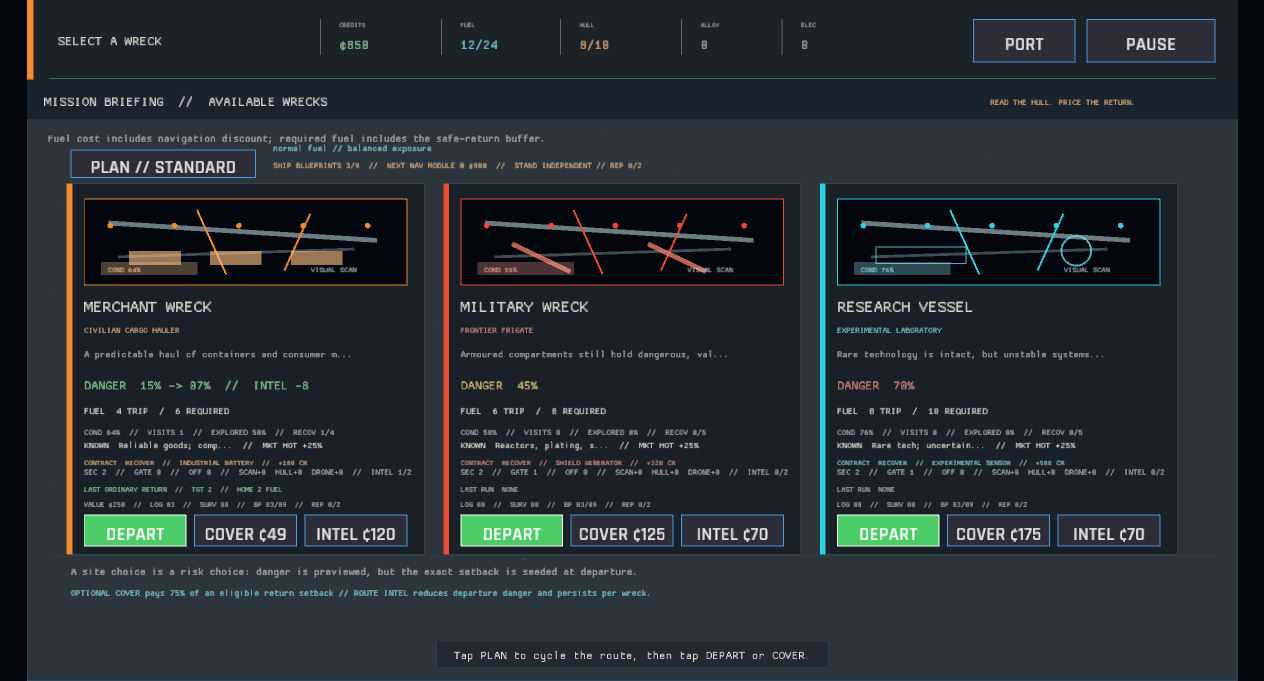
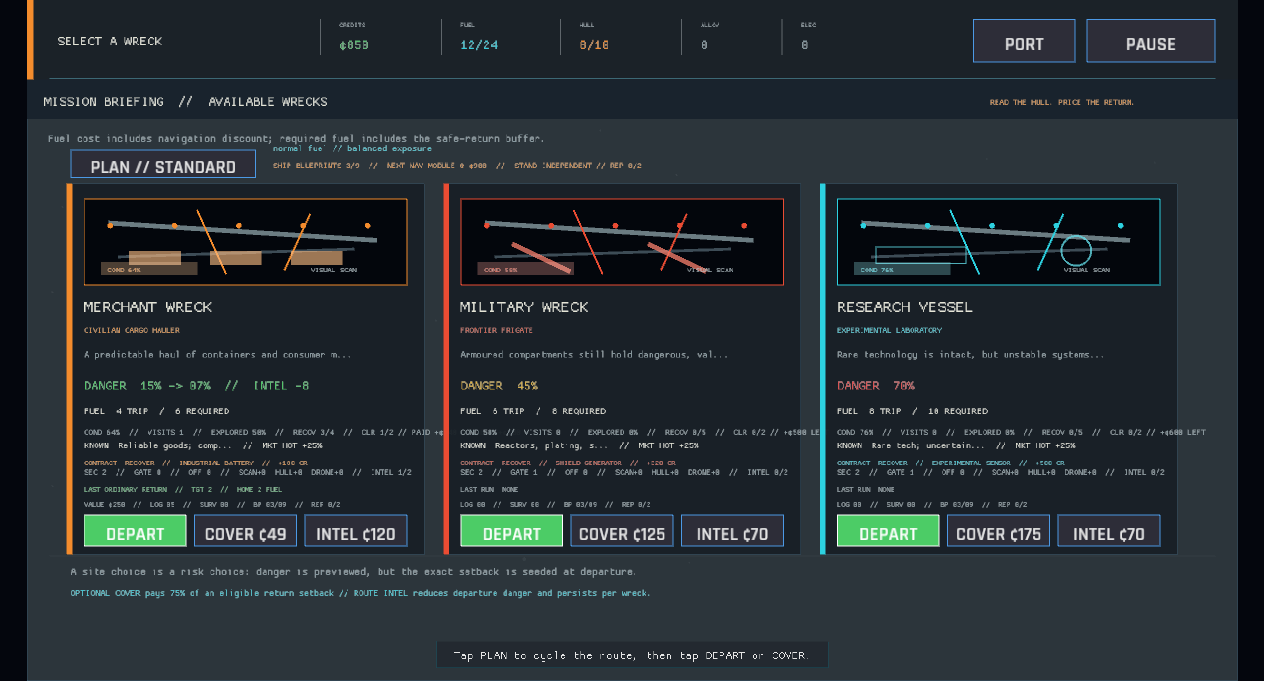
The wreck cards remember bounties already paid (persistent clearance history)
Mission briefings now distinguish clearance money already collected from the bounty still waiting in untouched frames. The progress capture carries a coherent cleared cargo frame so the saved-site memory is visible before the next route decision.

diff --git a/src/game/capture.rs b/src/game/capture.rs
@@ -237,7 +237,12 @@ impl Game {
                     progress.condition = 64;
                     progress.visits = 1;
                     progress.discovered_sections = vec!["cargo_bay".to_owned()];
-                    progress.removed_targets = vec!["industrial_battery".to_owned()];
+                    progress.removed_targets = vec![
+                        "industrial_battery".to_owned(),
+                        "navigation_computer".to_owned(),
+                        "engine_assembly".to_owned(),
+                    ];
+                    progress.cleared_sections = vec!["cargo_bay".to_owned()];
                     progress.reconnaissance_level = 1;
                     progress.operation_log = vec![
                         WorkspaceLogEntry::new(
@@ -258,6 +263,18 @@ impl Game {
                             Some("cargo_bay"),
                             Some("industrial_battery"),
                         ),
+                        WorkspaceLogEntry::new(
+                            4,
+                            WorkspaceLogEvent::TargetRecovered,
+                            Some("cargo_bay"),
+                            Some("navigation_computer"),
+                        ),
+                        WorkspaceLogEntry::new(
+                            5,
+                            WorkspaceLogEvent::TargetRecovered,
+                            Some("cargo_bay"),
+                            Some("engine_assembly"),
+                        ),
                     ];
                 }
                 self.session.voyage_log = vec![VoyageRecord {
@@ -275,8 +292,8 @@ impl Game {
                     contract_failed: false,
                     scan_profile: WorkspaceScanProfile::Array,
                     condition_after: 64,
-                    cleared_sections: Vec::new(),
-                    clearance_payout: 0,
+                    cleared_sections: vec!["cargo_bay".to_owned()],
+                    clearance_payout: 140,
                     return_fuel: 2,
                     market_cycle: 0,
                     insured: false,

diff --git a/src/ui/site_cards.rs b/src/ui/site_cards.rs
@@ -383,9 +383,11 @@ fn draw_site_card(
 
 fn site_clearance_label(session: &GameSession, site_id: &str, data: &GameData) -> String {
     let (cleared, total) = session.site_clearance_summary(site_id, data);
-    let (_, remaining_reward) = session.site_clearance_rewards(site_id, data);
+    let (paid_reward, remaining_reward) = session.site_clearance_rewards(site_id, data);
     if remaining_reward == 0 {
-        format!("CLR {cleared}/{total} // BOUNTIES PAID")
+        format!("CLR {cleared}/{total} // PAID +¢{paid_reward}")
+    } else if paid_reward > 0 {
+        format!("CLR {cleared}/{total} // PAID +¢{paid_reward} // LEFT +¢{remaining_reward}")
     } else {
         format!("CLR {cleared}/{total} // +¢{remaining_reward} LEFT")
     }

diff --git a/src/ui/site_cards/tests.rs b/src/ui/site_cards/tests.rs
@@ -129,3 +129,19 @@ fn mission_briefing_names_the_remaining_section_bounty() {
         "CLR 0/2 // +¢320 LEFT"
     );
 }
+
+#[test]
+fn mission_briefing_separates_paid_and_remaining_section_bounties() {
+    let data = GameData::load().unwrap();
+    let mut session = GameSession::new(&data);
+    session
+        .site_progress
+        .get_mut("merchant_wreck")
+        .unwrap()
+        .cleared_sections = vec!["cargo_bay".to_owned()];
+
+    assert_eq!(
+        site_clearance_label(&session, "merchant_wreck", &data),
+        "CLR 1/2 // PAID +¢140 // LEFT +¢180"
+    );
+}
